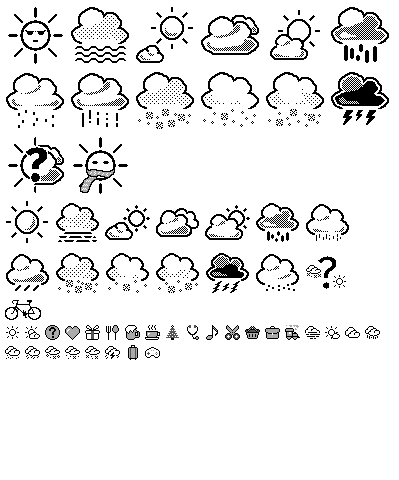
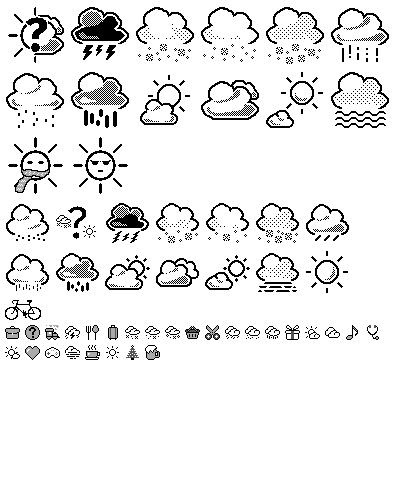
post-rebase cleanup

diff --git a/src/verdandi/metric/ics.py b/src/verdandi/metric/ics.py
@@ -91,22 +91,13 @@ class ICSEvent(BaseModel):
             if f"verdandi:{label.value}" in (event.description or "").lower()
         }
 
-        res = cls(
+        return cls(
             summary=event.summary or "",
             calendar=calendar,
             date_start=date_start,
             date_end=date_end,
             labels=labels,
         )
-
-        if "Fian" in res.summary:
-            print("--")
-            print(event)
-            print(res)
-            print(event.time_left)
-            # print(event.rdates)
-
-        return res
 
     def is_full_day(self, day: date) -> bool:
         """
@@ -195,9 +186,6 @@ class ICSConfig(MetricConfig[ICSMetric], frozen=True):
 
         async with http.get(str(cal.url)) as resp:
             data = await resp.read()
-
-        for event in events(string_content=data):
-            print(event, event.__dict__)
 
         return await loop.run_in_executor(
             executor,

diff --git a/src/verdandi/widget/debug_icons.py b/src/verdandi/widget/debug_icons.py
@@ -18,7 +18,7 @@ class DebugIcons3x4(Widget):
 
     def draw(self, draw: ImageDraw):  # ty:ignore[invalid-method-override]
         icons = list_icons()
-        icons.sort(key=lambda icon: icon_size(icon)[0], reverse=True)
+        icons.sort(key=lambda icon: (icon_size(icon)[0], icon), reverse=True)
 
         curr_height = 0
         curr_x = MARGIN

diff --git a/src/verdandi/util/text.py b/src/verdandi/util/text.py
@@ -1,4 +1,3 @@
-import logging
 from functools import lru_cache
 
 CATEGORY_MAPPING = {
@@ -21,10 +20,6 @@ CATEGORY_MAPPING = {
 
 
 def keep_ascii(text: str) -> str:
-    for c in text:
-        if ord(c) > 255:
-            logging.info("%s: %d", c, ord(c))
-
     return "".join(c for c in text if ord(c) <= 255).strip()
 
 

diff --git a/README.md b/README.md
@@ -18,7 +18,7 @@ $ pre-commit install
 This will start the server on port _8000_:
 
 ```shell
-$ uv run fastapi dev src/verdandi/main.py
+$ uv run fastapi dev src/verdandi/app.py
 ```
 
 ## Scripts
